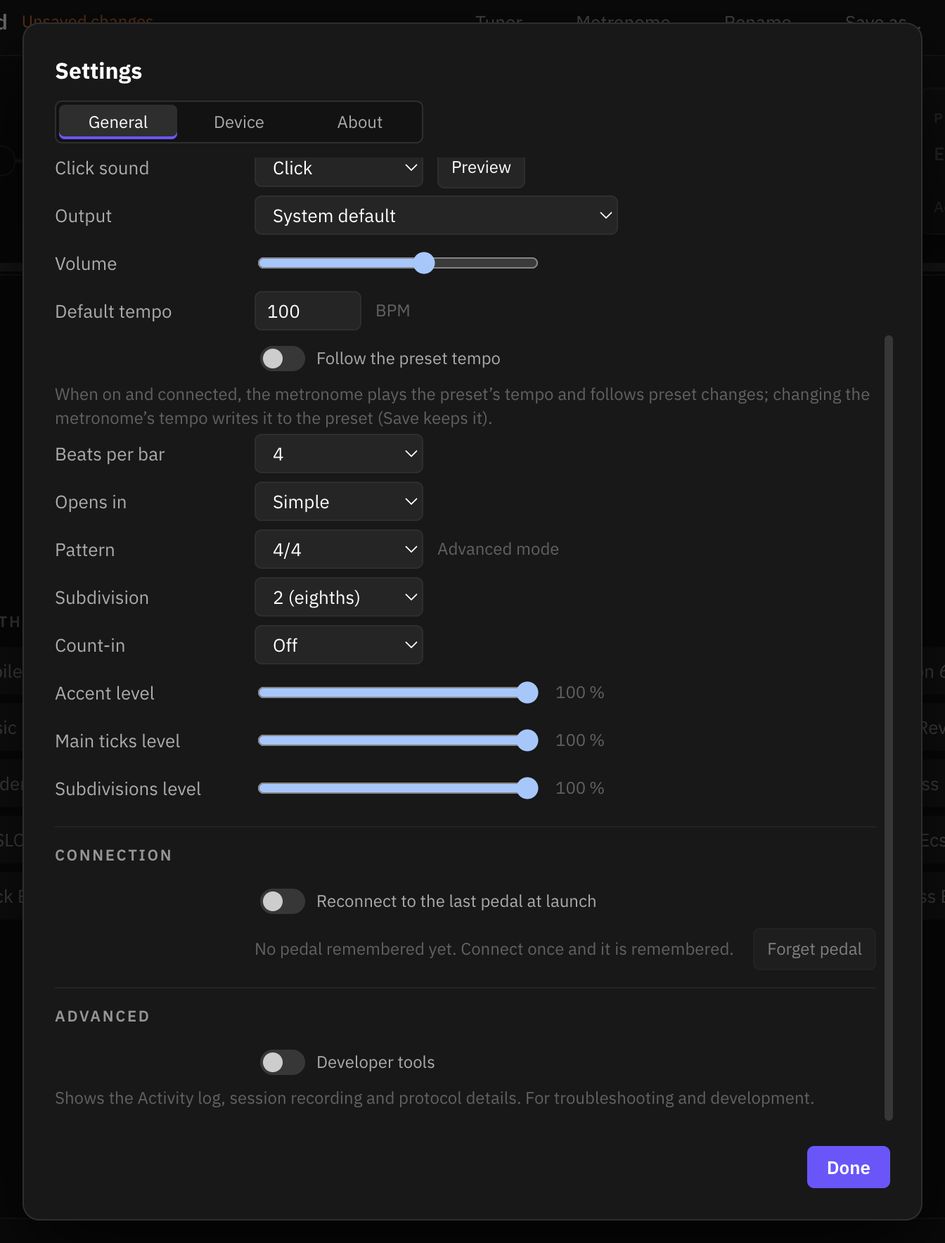
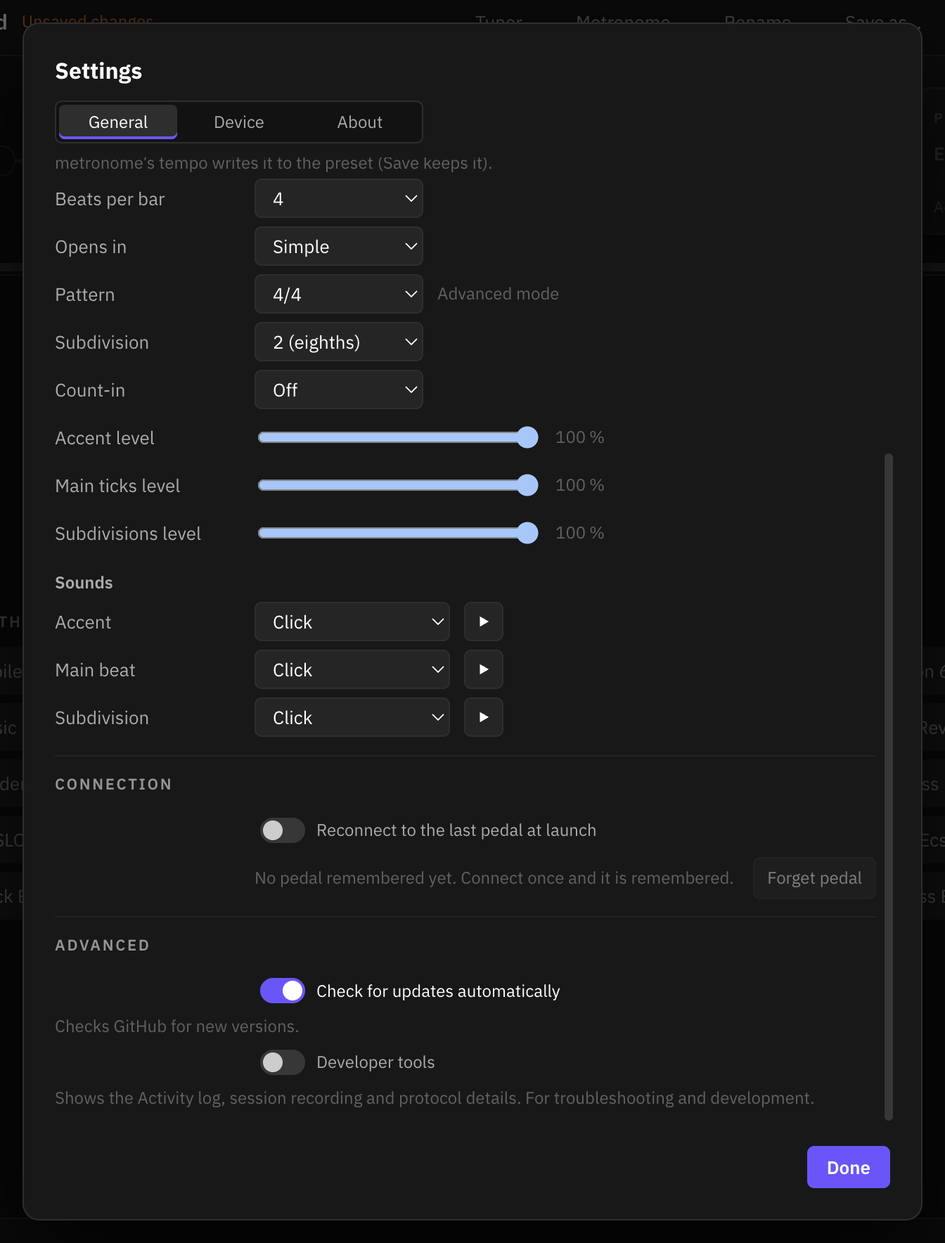
test, docs: custom metronome samples in the UX test; manual, CHANGELOG, CLAUDE.md
The UX test drives src/metro-samples.js with a temporary folder and a stub dialog, using WAV and AIFF files it
generates: pick, copy, per-role use, exact start times and level × volume through the scheduler, trim, re-pick,
undecodable and oversize files, cancel, Reset, a built-in replacing a sample, role/op guards, and the launch-time load
(copies survive the originals moving; missing or broken copies fall back with one toast). Settings screenshots
regenerated.

diff --git a/test/ux-test.js b/test/ux-test.js
@@ -1806,18 +1806,23 @@ async function run() {
   // metronome
   await click('#settingsBtn'); await waitFor(settingsOpen);
   check('Connection: reconnect at launch is shown disabled, with the reason, outside the desktop app', await js('document.querySelector(\'[data-fk="set-autoconnect"]\').disabled && /Web Bluetooth/.test(document.querySelector(\'[data-fk="set-pedal"]\').textContent)'));
-  check('Metronome offers Click, Woodblock, Tick, Beep and Cowbell', (await js('[...document.querySelectorAll(\'[data-fk="set-sound"] option\')].map(o => o.textContent).join(",")')) === 'Click,Woodblock,Tick,Beep,Cowbell');
-  await js('{ const s = document.querySelector(\'[data-fk="set-sound"]\'); s.value = "tick"; s.dispatchEvent(new Event("change")); }');
-  await click('[data-fk="set-preview"]');
-  await checkSoon('Preview plays the chosen sound', async () => (await js('__metro.state.lastVoice')) === 'tick');
-  await js('{ const s = document.querySelector(\'[data-fk="set-sound"]\'); s.value = "woodblock"; s.dispatchEvent(new Event("change")); }');
-  check('the sound choice is stored with the metronome settings', (await js('JSON.parse(localStorage.getItem("metronome")).sound')) === 'woodblock');
+  const soundRows = () => js('[...document.querySelectorAll(\'[data-fk^="set-snd-"]\')].map(r => r.querySelector(".set-label").textContent + ": " + [...r.querySelector("select").options].map(o => o.textContent).join(",")).join(" | ")');
+  check('Metronome → Sounds: Accent, Main beat and Subdivision, each with Click, Woodblock, Tick, Beep, Cowbell and Custom sample…',
+    (await soundRows()) === ['Accent', 'Main beat', 'Subdivision'].map(l => l + ': Click,Woodblock,Tick,Beep,Cowbell,Custom sample…').join(' | ') && (await js('document.querySelector(".set-sub").textContent')) === 'Sounds', await soundRows());
+  check('a sound row without a custom sample is just its menu and ▶ (no stray text)', await js('[...document.querySelectorAll(\'[data-fk^="set-snd-"] .set-ctl\')].every(c => c.childNodes.length === 2 && c.children.length === 2 && c.textContent === c.querySelector("select").textContent)'));
+  check('outside the desktop app "Custom sample…" is disabled', await js('[...document.querySelectorAll(\'[data-fk^="set-sound-"] option[value=pick]\')].every(o => o.disabled)'));
+  await setSel('set-sound-main', 'tick');
+  await click('[data-fk="set-play-main"]');
+  await checkSoon('▶ plays that role\'s sound', async () => (await js('__metro.state.lastVoice')) === 'tick');
+  await setSel('set-sound-main', 'woodblock');
+  check('each role\'s sound is stored with the metronome settings', await js('(() => { const m = JSON.parse(localStorage.getItem("metronome")); return m.sounds.main === "woodblock" && m.sounds.accent === "click" && m.sounds.sub === "click" && !("sound" in m); })()'));
   await js('{ const b = document.querySelector(\'[data-fk="set-bpm"]\'); b.value = "200"; b.dispatchEvent(new Event("change")); const v = document.querySelector(\'[data-fk="set-volume"]\'); v.value = "0.4"; v.dispatchEvent(new Event("input")); }');
   check('default tempo and volume land in the overlay\'s stored keys', await js('(() => { const m = JSON.parse(localStorage.getItem("metronome")); return m.bpm === 200 && m.volume === 0.4; })()'));
   await click('[data-fk="set-drawer"]');
   check('"Show the Activity drawer at launch" is stored', (await js('JSON.parse(localStorage.getItem("settings.drawerAtLaunch"))')) === true);
   // advanced metronome defaults
-  check('Settings → Metronome adds Opens in, Pattern, Subdivision, Count-in and the three levels', (await js('[...document.querySelectorAll(".settings section")].find(x => x.querySelector("h3").textContent === "Metronome").textContent')).match(/Opens in|Pattern|Subdivision|Count-in|Accent level|Main ticks level|Subdivisions level/g).length === 7);
+  const metroLabels = await js('[...[...document.querySelectorAll(".settings section")].find(x => x.querySelector("h3").textContent === "Metronome").querySelectorAll(".set-label")].map(l => l.textContent)');
+  check('Settings → Metronome adds Opens in, Pattern, Subdivision, Count-in and the three levels', ['Opens in', 'Pattern', 'Subdivision', 'Count-in', 'Accent level', 'Main ticks level', 'Subdivisions level'].every(l => metroLabels.includes(l)), metroLabels.join('|'));
   check('Settings shows the levels set in the popover', await js('document.querySelector(\'[data-fk="set-lvl-accent"]\').value === "0.5" && document.querySelector(\'[data-fk="set-lvl-sub"]\').value === "0.25"'));
   check('Opens in defaults to Simple', (await js('document.querySelector(\'[data-fk="set-opens"]\').value')) === 'simple');
   for (const [fk, v] of [['set-opens', 'advanced'], ['set-pattern', '7/8'], ['set-subdiv', '3'], ['set-countin', '2']]) await js(`{ const s = document.querySelector('[data-fk="${fk}"]'); s.value = "${v}"; s.dispatchEvent(new Event("change")); }`);
@@ -1830,7 +1835,9 @@ async function run() {
   check('the metronome overlay shows the settings (200 BPM, volume 0.4)', await js('document.getElementById("metroBpm").value === "200" && document.getElementById("metroVol").value === "0.4"'));
   check('Settings "Opens in: Advanced" is honoured', await js('__metro.state.mode === "advanced" && !document.getElementById("metroAdv").hidden && document.querySelectorAll(".metro-cell").length === 7'));
   await key(' ');
-  await checkSoon('the metronome schedules the chosen sound and still runs', '__metro.state.running && __metro.state.count >= 1 && __metro.state.lastVoice === "woodblock"', () => js('JSON.stringify({ r: __metro.state.running, c: __metro.state.count, v: __metro.state.lastVoice })'));
+  await checkSoon('the metronome schedules each role\'s sound (main beats: Woodblock, accents: Click) and still runs',
+    '__metro.state.running && __metro.state.count >= 1 && __metro.state.scheduled.some(e => e.role === "accent") && __metro.state.scheduled.some(e => e.role === "normal") && __metro.state.scheduled.every(e => e.sound === ({ accent: "click", normal: "woodblock", soft: "woodblock", sub: "click", mute: null })[e.role])',
+    () => js('JSON.stringify({ r: __metro.state.running, c: __metro.state.count, ev: __metro.state.scheduled.slice(0, 8).map(e => e.role + ":" + e.sound) })'));
   await key(' ');
   await checkSoon('and still stops', '!__metro.state.running');
   await key('Escape'); await waitFor('!__metro.state.open');
@@ -1838,7 +1845,7 @@ async function run() {
   // persistence across a reload
   await reloadPage();
   check('the accent survives a reload', (await js('getComputedStyle(document.documentElement).getPropertyValue("--accent").trim()')) === '#ff7000' && (await js('getComputedStyle(document.querySelector(".preset-row.active")).boxShadow')).includes('rgb(255, 112, 0)'));
-  check('the sound and tempo survive a reload', await js('__metro.state.sound === "woodblock" && __metro.state.bpm === 200'));
+  check('the sounds and tempo survive a reload', await js('__metro.state.sounds.main === "woodblock" && __metro.state.sounds.accent === "click" && __metro.state.bpm === 200'));
   check('the Activity drawer opens at launch when set', await js('document.getElementById("drawer").classList.contains("open")'));
   check('the advanced setup, levels and Opens in survive a reload', await js('(() => { const s = __metro.state; return s.opensIn === "advanced" && s.adv.pattern.join() === "accent,soft,normal,soft,normal,soft,soft" && s.adv.note === 8 && s.adv.sub === 3 && s.adv.countIn === 2 && s.levels.accent === 0.5 && s.levels.main === 0.8 && s.levels.sub === 0.25; })()'));
   await js('document.activeElement.blur()');
@@ -1846,9 +1853,200 @@ async function run() {
   await checkSoon('after a reload the overlay opens in Advanced with the remembered pattern', () => js('__metro.state.mode === "advanced" && document.querySelector(\'[data-fk="metro-pattern"]\').value === "7/8" && document.querySelector(\'[data-fk="metro-sub-3"]\').classList.contains("on")'));
   await key('Escape'); await waitFor('!__metro.state.open');
   // back to the defaults for the rest of the run (and the next one)
-  await js('__accent.set("#6954ff"); localStorage.removeItem("settings.drawerAtLaunch"); __metro.state.sound = "click"; __metro.state.volume = 0.6; __metro.state.opensIn = "simple"; __metro.state.mode = "simple"; __metro.state.adv = __metro.normSetup({}); Object.assign(__metro.state.levels, { accent: 1, main: 1, sub: 1 }); __metro.setBpm(100)');
+  await js('__accent.set("#6954ff"); localStorage.removeItem("settings.drawerAtLaunch"); __metro.state.sounds = { accent: "click", main: "click", sub: "click" }; __metro.state.volume = 0.6; __metro.state.opensIn = "simple"; __metro.state.mode = "simple"; __metro.state.adv = __metro.normSetup({}); Object.assign(__metro.state.levels, { accent: 1, main: 1, sub: 1 }); __metro.setBpm(100)');
   await key('l', [MOD]);
   check('Purple restores the original colours', (await js('getComputedStyle(document.documentElement).getPropertyValue("--accent-hi").trim()')) === '#7b68ff' && (await js('getComputedStyle(document.documentElement).getPropertyValue("--on-accent").trim()')) === '#ffffff');
+
+  // ---------------------------------------------------------------- custom metronome samples
+  // The shell's side (src/metro-samples.js) with a temporary folder and a stub file dialog. The test carries the page's
+  // requests to it as the IPC does: the page's bridge (set through __metro.samples.setBridge, which also runs the
+  // launch-time load) queues { op, role }, the pump below answers with the real module, bytes as base64.
+  {
+    const { createMetroSamples, EXTS, MAX_BYTES } = require('../src/metro-samples');
+    const sdir = path.join(OUT, 'metronome-sounds'), srcDir = path.join(OUT, 'sample-sources');
+    for (const d of [sdir, srcDir]) fs.rmSync(d, { recursive: true, force: true });
+    fs.mkdirSync(srcDir, { recursive: true });
+    // Test files, generated here: 16-bit PCM WAV (a decaying 1 kHz tone) and 16-bit AIFF (a known ramp).
+    const wavBytes = (seconds, channels = 1, rate = 44100) => {
+      const n = Math.round(seconds * rate), data = Buffer.alloc(n * channels * 2);
+      for (let i = 0; i < n; i++) for (let c = 0; c < channels; c++) data.writeInt16LE(Math.round(12000 * Math.sin(2 * Math.PI * 1000 * i / rate) * Math.exp(-8 * i / rate)), (i * channels + c) * 2);
+      const h = Buffer.alloc(44);
+      h.write('RIFF', 0); h.writeUInt32LE(36 + data.length, 4); h.write('WAVEfmt ', 8); h.writeUInt32LE(16, 16); h.writeUInt16LE(1, 20); h.writeUInt16LE(channels, 22);
+      h.writeUInt32LE(rate, 24); h.writeUInt32LE(rate * channels * 2, 28); h.writeUInt16LE(channels * 2, 32); h.writeUInt16LE(16, 34); h.write('data', 36); h.writeUInt32LE(data.length, 40);
+      return Buffer.concat([h, data]);
+    };
+    const aiffBytes = (seconds, rate = 44100) => {
+      const n = Math.round(seconds * rate), data = Buffer.alloc(n * 2);
+      for (let i = 0; i < n; i++) data.writeInt16BE(-16000 + (i % 100) * 10, i * 2);
+      const comm = Buffer.alloc(26), e = Math.floor(Math.log2(rate));
+      comm.write('COMM', 0); comm.writeUInt32BE(18, 4); comm.writeUInt16BE(1, 8); comm.writeUInt32BE(n, 10); comm.writeUInt16BE(16, 14);
+      comm.writeUInt16BE(16383 + e, 16); comm.writeBigUInt64BE(BigInt(rate) << BigInt(63 - e), 18);   // the rate as an 80-bit float
+      const ssnd = Buffer.alloc(16); ssnd.write('SSND', 0); ssnd.writeUInt32BE(8 + data.length, 4);
+      const body = Buffer.concat([Buffer.from('AIFF'), comm, ssnd, data]), form = Buffer.alloc(8);
+      form.write('FORM', 0); form.writeUInt32BE(body.length, 4);
+      return Buffer.concat([form, body]);
+    };
+    const source = (name, bytes) => { const f = path.join(srcDir, name); fs.writeFileSync(f, bytes); return f; };
+    const stored = () => fs.existsSync(sdir) ? fs.readdirSync(sdir).sort().join(',') : '';
+    let nextPick = null;
+    const dialogs = [];
+    const shell = createMetroSamples({ dir: sdir, choose: async (role, opts) => { dialogs.push({ role, ...opts }); return nextPick; } });
+    let pumping = true;
+    const pump = (async () => {
+      while (pumping) {
+        let q = [];
+        try { q = await js('typeof __sb === "undefined" ? [] : __sb.q.splice(0)'); } catch { /* reloading */ }
+        for (const c of q) {
+          const r = await shell.handle(c.op, c.role);
+          const out = r && r.bytes ? { ...r, bytes: Buffer.from(r.bytes).toString('base64') } : r;
+          try { await js(`__sb.done(${c.id}, ${JSON.stringify(out)})`); } catch { /* reloading */ }
+        }
+        await sleep(15);
+      }
+    })();
+    // The bridge, as the preload's nanoShell.metroSample would be; resolves to the roles the launch-time load gave up on.
+    const connectShell = () => js(`(() => {
+      window.__sb = { n: 0, q: [], wait: {}, done(id, r) { if (r && r.bytes) r.bytes = Uint8Array.from(atob(r.bytes), c => c.charCodeAt(0)); this.wait[id](r); delete this.wait[id]; } };
+      return __metro.samples.setBridge((op, role) => new Promise((res) => { const id = ++__sb.n; __sb.wait[id] = res; __sb.q.push({ id, op, role }); }));
+    })()`);
+    // Every buffer the page starts, with the gain it goes through, and every toast.
+    const instrument = () => js(`(() => {
+      window.__plays = []; window.__toasts = [];
+      new MutationObserver(() => __toasts.push(document.getElementById('toast').textContent)).observe(document.getElementById('toast'), { childList: true, characterData: true, subtree: true });
+      const P = AudioContext.prototype, make = P.createBufferSource;
+      if (P.__wrapped) return; P.__wrapped = true;
+      P.createBufferSource = function () {
+        const n = make.call(this), connect = n.connect.bind(n), start = n.start.bind(n);
+        let gain = null;
+        n.connect = (d, ...a) => { if (d instanceof GainNode) gain = d.gain.value; return connect(d, ...a); };
+        n.start = (at, ...a) => { __plays.push({ buffer: n.buffer, at, gain }); if (__plays.length > 1000) __plays.shift(); return start(at, ...a); };
+        return n;
+      };
+    })()`);
+    const toastNow = () => js('document.getElementById("toast").classList.contains("show") ? document.getElementById("toast").textContent : ""');
+    const metroStore = () => js('JSON.parse(localStorage.getItem("metronome") || "{}")');
+    const openSet = async () => { await click('#settingsBtn'); await waitFor(settingsOpen); };
+    const closeSet = async () => { await key('Escape'); await waitFor(async () => !(await settingsOpen())); };
+    const choose = async (role, file) => {   // "Custom sample…" in the role's menu, with the stub dialog answering `file`
+      nextPick = file;
+      const before = dialogs.length;
+      await setSel('set-sound-' + role, 'pick');
+      await waitFor(async () => dialogs.length > before && await js(`!document.querySelector('[data-fk="set-sound-${role}"]').disabled`));
+      await frame();
+    };
+
+    await instrument();
+    check('samples: the launch-time load has nothing to do on a fresh install', (await connectShell()).length === 0 && (await js('__toasts.length')) === 0);
+    await openSet();
+    check('samples: in the desktop app "Custom sample…" is enabled', await js('[...document.querySelectorAll(\'[data-fk^="set-sound-"] option[value=pick]\')].every(o => !o.disabled)'));
+
+    // Pick a WAV for the main beat: copied into the data folder, stored, shown, decoded once and used.
+    const clickWav = wavBytes(0.25);
+    const clickSrc = source('My Click.wav', clickWav);
+    await choose('main', clickSrc);
+    await checkSoon('samples: picking a WAV for Main beat copies it to metronome-sounds/main.wav', async () => stored() === 'main.wav' && fs.readFileSync(path.join(sdir, 'main.wav')).equals(clickWav), stored);
+    check('samples: the dialog is the shell\'s, for that role, filtered to the audio types', dialogs.length === 1 && dialogs[0].role === 'main' && dialogs[0].title === 'Custom sample: Main beat'
+      && JSON.stringify(dialogs[0].filters) === JSON.stringify([{ name: 'Audio', extensions: EXTS }]) && ['wav', 'aif', 'aiff', 'mp3', 'm4a', 'aac', 'flac', 'ogg', 'opus'].every(x => EXTS.includes(x)), JSON.stringify(dialogs[0]));
+    check('samples: the choice is stored with the metronome settings (file name only)', JSON.stringify((await metroStore()).samples) === '{"main":{"name":"My Click.wav"}}', JSON.stringify((await metroStore()).samples));
+    check('samples: the row shows "Custom", the file name and Reset', await js('(() => { const r = document.querySelector(\'[data-fk="set-snd-main"]\'); return r.querySelector("select").value === "custom" && r.querySelector(\'[data-fk="set-file-main"]\').textContent === "My Click.wav" && r.querySelector(\'[data-fk="set-reset-main"]\').textContent === "Reset"; })()'));
+    check('samples: no toast for a sample under 2 s', !/trimmed/.test(await toastNow()), await toastNow());
+    check('samples: decoded once into an AudioBuffer (0.25 s, mono)', await js('(() => { const b = __metro.samples.buffers.main; return b instanceof AudioBuffer && Math.abs(b.duration - 0.25) < 0.002 && b.numberOfChannels === 1; })()'));
+    check('samples: main and soft beats use it, accents and subdivisions keep their built-in sound', await M('m.soundFor("normal").buffer === m.samples.buffers.main && m.soundFor("soft").buffer === m.samples.buffers.main && m.soundFor("normal").id === "sample" && m.soundFor("accent").id === "click" && m.soundFor("sub").id === "click"'));
+    await js('__plays.length = 0');
+    await click('[data-fk="set-play-main"]');
+    await checkSoon('samples: ▶ plays the sample at the main level and the volume', () => js('__plays.some(p => p.buffer === __metro.samples.buffers.main && Math.abs(p.gain - __metro.state.volume * __metro.state.levels.main) < 1e-6)'), () => js('JSON.stringify(__plays.map(p => p.gain))'));
+
+    // Subdivision too; a long stereo file for the accent is cut to its first 2 s, with a toast.
+    await choose('sub', source('Sub Tick.wav', wavBytes(0.1)));
+    await choose('accent', source('Long Hit.wav', wavBytes(3, 2)));
+    await checkSoon('samples: a 3 s file is trimmed to 2 s, and says so', async () => (await toastNow()) === '“Long Hit.wav” is trimmed to its first 2 seconds.', toastNow);
+    check('samples: stereo is fine (2 channels kept), the copy is the whole file', await js('(() => { const b = __metro.samples.buffers.accent; return Math.abs(b.duration - 2) < 0.001 && b.numberOfChannels === 2; })()') && fs.statSync(path.join(sdir, 'accent.wav')).size === wavBytes(3, 2).length, stored());
+    await js('document.querySelector(\'[data-fk="set-snd-sub"]\').scrollIntoView({ block: "center" })');
+    await shot('metro-samples-settings');
+    // Picking a built-in sound while a sample is set drops the sample (and its copy).
+    await setSel('set-sound-accent', 'beep');
+    await checkSoon('samples: choosing a built-in sound instead deletes the copy', async () => stored() === 'main.wav,sub.wav' && await js('!__metro.samples.buffers.accent && __metro.state.sounds.accent === "beep" && !__metro.state.samples.accent && !document.querySelector(\'[data-fk="set-reset-accent"]\')'), stored);
+    await setSel('set-sound-accent', 'click');
+    await closeSet();
+
+    // The scheduler plays the samples like the built-ins: same times, the role's level times the volume.
+    await js('Object.assign(__metro.state.levels, { accent: 1, main: 0.5, sub: 0.25 }); __metro.state.adv = __metro.normSetup({ beats: 4, pattern: ["accent", "normal", "soft", "normal"], sub: 2 }); __metro.setBpm(240)');
+    await js('document.activeElement.blur()');
+    await key('n'); await waitFor('__metro.state.open');
+    await click('[data-fk="metro-mode-advanced"]');
+    await js('__plays.length = 0');
+    await key(' ');
+    await waitFor(() => M('s.scheduled.filter(e => e.role === "soft").length >= 2 && s.scheduled.filter(e => e.role === "sub").length >= 8'));
+    await key(' '); await waitFor('!__metro.state.running');
+    const run = await js(`(() => {
+      const B = __metro.samples.buffers, v = __metro.state.volume, ev = __metro.state.scheduled.slice(), plays = __plays.slice();
+      const want = { normal: [B.main, v * 0.5], soft: [B.main, v * 0.5 * 0.45], sub: [B.sub, v * 0.25 * 0.5] };
+      const bad = [];
+      for (const e of ev) {
+        if (e.role === 'accent') { if (e.sound !== 'click') bad.push('accent ' + e.sound); continue; }
+        const [buf, gain] = want[e.role];
+        const p = plays.filter(p => p.buffer === buf && Math.abs(p.at - e.at) < 1e-6);
+        if (e.sound !== 'sample' || p.length !== 1 || Math.abs(p[0].gain - gain) > 1e-6) bad.push(e.role + '@' + e.at + ' ' + e.sound + ' ' + p.map(x => x.gain));
+      }
+      return { n: ev.length, bad };
+    })()`);
+    check('samples: every main, soft and sub event starts its sample exactly at the scheduled time, at level × volume (soft quieter)', run.n >= 12 && run.bad.length === 0, JSON.stringify(run).slice(0, 300));
+    await js('Object.assign(__metro.state.levels, { accent: 1, main: 1, sub: 1 }); __metro.state.adv = __metro.normSetup({}); __metro.setBpm(100)');
+    await click('[data-fk="metro-mode-simple"]');
+    await key('Escape'); await waitFor('!__metro.state.open');
+
+    // Re-picking replaces the copy (an AIFF now: Chromium can't decode it, the page reads it itself).
+    await openSet();
+    await choose('main', source('Clave.aiff', aiffBytes(0.2)));
+    await checkSoon('samples: re-picking overwrites the role\'s copy (main.wav → main.aiff)', async () => stored() === 'main.aiff,sub.wav' && (await js('__metro.state.samples.main.name')) === 'Clave.aiff', stored);
+    check('samples: uncompressed AIFF is read (0.2 s at 44.1 kHz, first samples exact)', await js('(() => { const b = __metro.samples.buffers.main, d = b.getChannelData(0); return b.sampleRate === 44100 && b.length === 8820 && Math.abs(d[0] + 16000 / 32768) < 1e-6 && Math.abs(d[1] + 15990 / 32768) < 1e-6; })()'),
+      await js('(() => { const b = __metro.samples.buffers.main; return b && b.sampleRate + " " + b.length + " " + b.getChannelData(0)[0]; })()'));
+    // Rejected files change nothing.
+    const unchanged = async () => stored() === 'main.aiff,sub.wav' && await js('__metro.state.samples.main.name === "Clave.aiff" && __metro.samples.buffers.main.length === 8820 && document.querySelector(\'[data-fk="set-sound-main"]\').value === "custom"');
+    await choose('main', source('not-audio.mp3', Buffer.from('these are notes, not audio\n'.repeat(40))));
+    await checkSoon('samples: a file that isn\'t audio is rejected with a message', async () => (await toastNow()) === '“not-audio.mp3” isn’t audio the metronome can play.', toastNow);
+    check('samples: … and the current sample stays', await unchanged(), stored());
+    const huge = source('huge.wav', Buffer.concat([wavBytes(0.1), Buffer.alloc(MAX_BYTES)]));
+    await choose('main', huge);
+    await checkSoon('samples: a file over 5 MB is rejected with a message', async () => (await toastNow()) === '“huge.wav” is larger than 5 MB.', toastNow);
+    check('samples: … before it is read, and the current sample stays', MAX_BYTES === 5 * 1024 * 1024 && fs.statSync(huge).size > MAX_BYTES && await unchanged(), stored());
+    await js('__toasts.length = 0');
+    await choose('main', null);
+    check('samples: cancelling the dialog changes nothing, quietly', await unchanged() && (await js('__toasts.length')) === 0);
+    // Reset: back to the built-in sound, the copy deleted.
+    await click('[data-fk="set-reset-main"]');
+    await checkSoon('samples: Reset returns Main beat to its built-in sound and deletes the copy', async () => stored() === 'sub.wav' && await M('!s.samples.main && !m.samples.buffers.main && m.soundFor("normal").id === "click"')
+      && await js('document.querySelector(\'[data-fk="set-sound-main"]\').value === "click" && !document.querySelector(\'[data-fk="set-file-main"]\')'), stored);
+
+    // The shell side only takes a known role and operation; the page never names a path.
+    const guards = [await shell.handle('pick', '../../etc/passwd'), await shell.handle('load', 'main/../../x'), await shell.handle('read', 'main'), await shell.handle('save', 'main')];
+    check('samples: the shell refuses unknown roles and operations, and a save without a pick', guards.map(g => g.error).join() === 'role,role,op,nothing' && dialogs.every(d => ['accent', 'main', 'sub'].includes(d.role)), JSON.stringify(guards));
+
+    // The copy survives the original moving away.
+    await choose('main', clickSrc);
+    await waitFor(async () => stored() === 'main.wav,sub.wav');
+    await closeSet();
+    fs.rmSync(srcDir, { recursive: true, force: true });
+    await reloadPage(); await instrument();
+    const lost0 = await connectShell();
+    check('samples: at launch the copies are decoded (the originals are gone), no toast', lost0.length === 0 && (await js('__toasts.length')) === 0 && await M('m.samples.buffers.main.length === 12000 && m.samples.buffers.sub instanceof AudioBuffer && m.soundFor("normal").id === "sample"'), JSON.stringify(lost0));
+
+    // Missing or broken copies at launch: the built-in sound, one quiet toast, and the setting goes back.
+    fs.rmSync(path.join(sdir, 'main.wav'));
+    fs.writeFileSync(path.join(sdir, 'sub.wav'), 'not a wave');
+    await reloadPage(); await instrument();
+    const lost = await connectShell();
+    check('samples: a missing and an unreadable copy at launch fall back to the built-in sounds', lost.join() === 'main,sub' && await M('m.soundFor("normal").id === "click" && m.soundFor("sub").id === "click" && Object.keys(s.samples).length === 0') && JSON.stringify((await metroStore()).samples) === '{}', JSON.stringify(lost));
+    await waitFor('__toasts.length > 0');
+    check('samples: … with one toast', (await js('__toasts.length')) === 1 && (await js('__toasts[0]')) === 'Couldn’t load the custom metronome sounds for Main beat and Subdivision; using the built-in ones.', await js('JSON.stringify(__toasts)'));
+    check('samples: … and the broken copy is deleted', stored() === '', stored());
+    await reloadPage(); await instrument();
+    check('samples: the next launch is quiet', (await connectShell()).length === 0 && (await js('__toasts.length')) === 0);
+
+    pumping = false; await Promise.race([pump, sleep(3000)]);
+    await js('delete window.__sb');
+    for (const d of [sdir, srcDir]) fs.rmSync(d, { recursive: true, force: true });
+  }
 
   // the Dock / window icon, rendered the way the shell does it
   const { renderAccentIcon } = require('../src/accent-icon');

diff --git a/CLAUDE.md b/CLAUDE.md
@@ -38,6 +38,7 @@ npm run docs:screenshots # regenerate docs/images/ in demo mode (needs Python + 
 - `pro/live-sync.js` (from #14): live reports from the pedal (26, 31, 64, 94, 99), the expression position and read-back, a counter of completed state reads (`NanoLive.readCurrentState()`), and the outermost `onC305` wrapper that hands every layer exact notification bytes. Core-level, loaded after core.js; `pro/ui.js` plugs in through `NanoLive.hooks`. Upstream's `editor/index.html` is never edited for this.
 - `pro/ui.js` and `pro/ui.css`: the whole UI. It overrides the hooks on `window`. Demo mode (`?demo`, or no Web Bluetooth) fakes the write characteristic and answers typed requests (preset change, rename, library, slot loads, tuner) through the real parsers, so writes still go through the real packet builders.
 - Metronome (N): Simple / Advanced overlay. `metroBarEvents(setup, bar)` in `pro/ui.js` is the pure event generator (the spec for the native port); the scheduler consumes it, trainers apply only at bar starts, sounds go through `soundFor(role)`.
+- **Metronome sounds** (Settings → Metronome → Sounds): three sound roles, `accent`, `main` (normal and soft beats; soft is the main sound, quieter) and `sub` (count-in has no sound of its own). Each has a built-in voice (`metronome.sounds[role]`, migrated from the old single `sound`) and optionally a custom sample (`metronome.samples[role] = { name }`, the file name only). **Samples live in `app.getPath('userData')/metronome-sounds/<role>.<ext>`**, a copy made by `src/metro-samples.js` (no Electron; IPC `metro-sample` with op `pick | save | load | reset | discard` and a role, sender checked; main shows the dialog, refuses files over 5 MB, reads the bytes and copies them only after the page decoded them, so the page never names a path). The page decodes each sample once (first 2 s; Chromium's `decodeAudioData` takes WAV, MP3, AAC/M4A, FLAC and Ogg Vorbis/Opus on all three platforms, but not AIFF or ALAC, so `readAiff` reads uncompressed AIFF/AIFF-C), plays it through the same context at level × volume, and at launch falls back to the built-in voice with one toast when a copy is missing or unreadable. The UX test drives it with a temp folder and a stub dialog (`__metro.samples.setBridge`).
 - Settings (⌘,): accent, metronome defaults, reconnect at launch, Developer tools, Activity at launch. Page prefs live in localStorage (`settings.*`, `metronome`); what main needs before the page loads (accent for the Dock icon, the remembered pedal, `devTools` for the menu) is in `userData/settings.json`.
 - **Developer tools** (`settings.devTools`, off by default; Settings → General → Advanced): gates Record, the Activity drawer and ⌘L, "Sent: …" in the status bar, Activity at launch, Raw settings and the device/capture hashes (elements with class `dev-only`, hidden unless `body.dev-tools`), plus View → Classic Editor / Reload Current / Developer Tools (`src/menu.js`, rebuilt via `nanoShell.setDevTools`). The UX test turns it on with the real switch near the start. Not gated: the dev remote, the `[editor]` terminal mirror, demo mode.
 - Activity log file for everyone: main writes every editor console line to `app.getPath('logs')/nano-cortex-editor.log` (`src/activity-log.js`: batched ~1 s, rotates to `activity.1.log` past 2 MB). Help → Show Log File reveals it. `src/accent-icon.js` renders the accent icon. `src/editor-preload.js` exposes `window.nanoShell` for these.

diff --git a/docs/MANUAL.md b/docs/MANUAL.md
@@ -371,6 +371,10 @@ for microphone permission; that is only how browsers reveal output names. Nothin
 
 ![The Levels popover with Accent, Main ticks and Subdivisions sliders](images/metronome-levels.png)
 
+**Your own sounds** ([Settings](#12-settings) → Metronome → Sounds): the accent, the main beat and the subdivisions
+can each play a built-in sound or **Custom sample…**, a WAV, AIFF, MP3, M4A/AAC, FLAC or Ogg file up to 5 MB (the
+first 2 seconds play). The app keeps its own copy of the file; **Reset** goes back to the built-in sound.
+
 **Follow the preset tempo** ([Settings](#12-settings) → Metronome): when on and connected, the metronome plays the
 current preset's tempo and follows preset changes, and changing the metronome's tempo writes it to the preset (Save
 keeps it). The panel then says "♩ follows preset".
@@ -423,9 +427,10 @@ Open Settings with ⌘, (Ctrl+, on Windows), from the app menu, or with **Settin
 
 - **Appearance**: seven accent colours for highlights, buttons and the app icon. **Dock icon follows the accent**
   recolours the app icon too.
-- **Metronome**: click sound (Click, Woodblock, Tick, Beep, Cowbell) with **Preview**, output, volume, default tempo,
-  **Follow the preset tempo**, beats per bar, which mode the panel **Opens in**, and the Advanced defaults (pattern,
-  subdivision, count-in and the three levels).
+- **Metronome**: output, volume, default tempo, **Follow the preset tempo**, beats per bar, which mode the panel
+  **Opens in**, the Advanced defaults (pattern, subdivision, count-in and the three levels), and **Sounds**: for the
+  accent, the main beat and the subdivisions, a built-in sound (Click, Woodblock, Tick, Beep, Cowbell) or your own
+  sample ([section 10](#10-metronome)), with ▶ to hear it.
 - **Connection**: **Reconnect to the last pedal at launch** and **Forget pedal**.
 - **Advanced**: **Check for updates automatically** (on by default; see Updates in
   [section 1](#1-install-and-first-launch)) and **Developer tools** (below). With it on, also **Show the Activity drawer at launch** and **Show

diff --git a/CHANGELOG.md b/CHANGELOG.md
@@ -20,6 +20,7 @@ All notable changes to Nano Cortex Editor (Electron edition). Versions follow [S
 - **Monitoring** in Settings → Device: Mute Input and Mute Outputs 1L/2R; a header **Mute** button for the input,
   read from the pedal at connect.
 - Knob drags, the mouse wheel and arrow keys send while you turn, not only when you let go.
+- Metronome sounds per click, including your own samples: the accent, main beat and subdivisions each play a built-in sound or a WAV, AIFF, MP3, M4A/AAC, FLAC or Ogg file (Settings → Metronome → Sounds).
 
 ### Fixed
 
